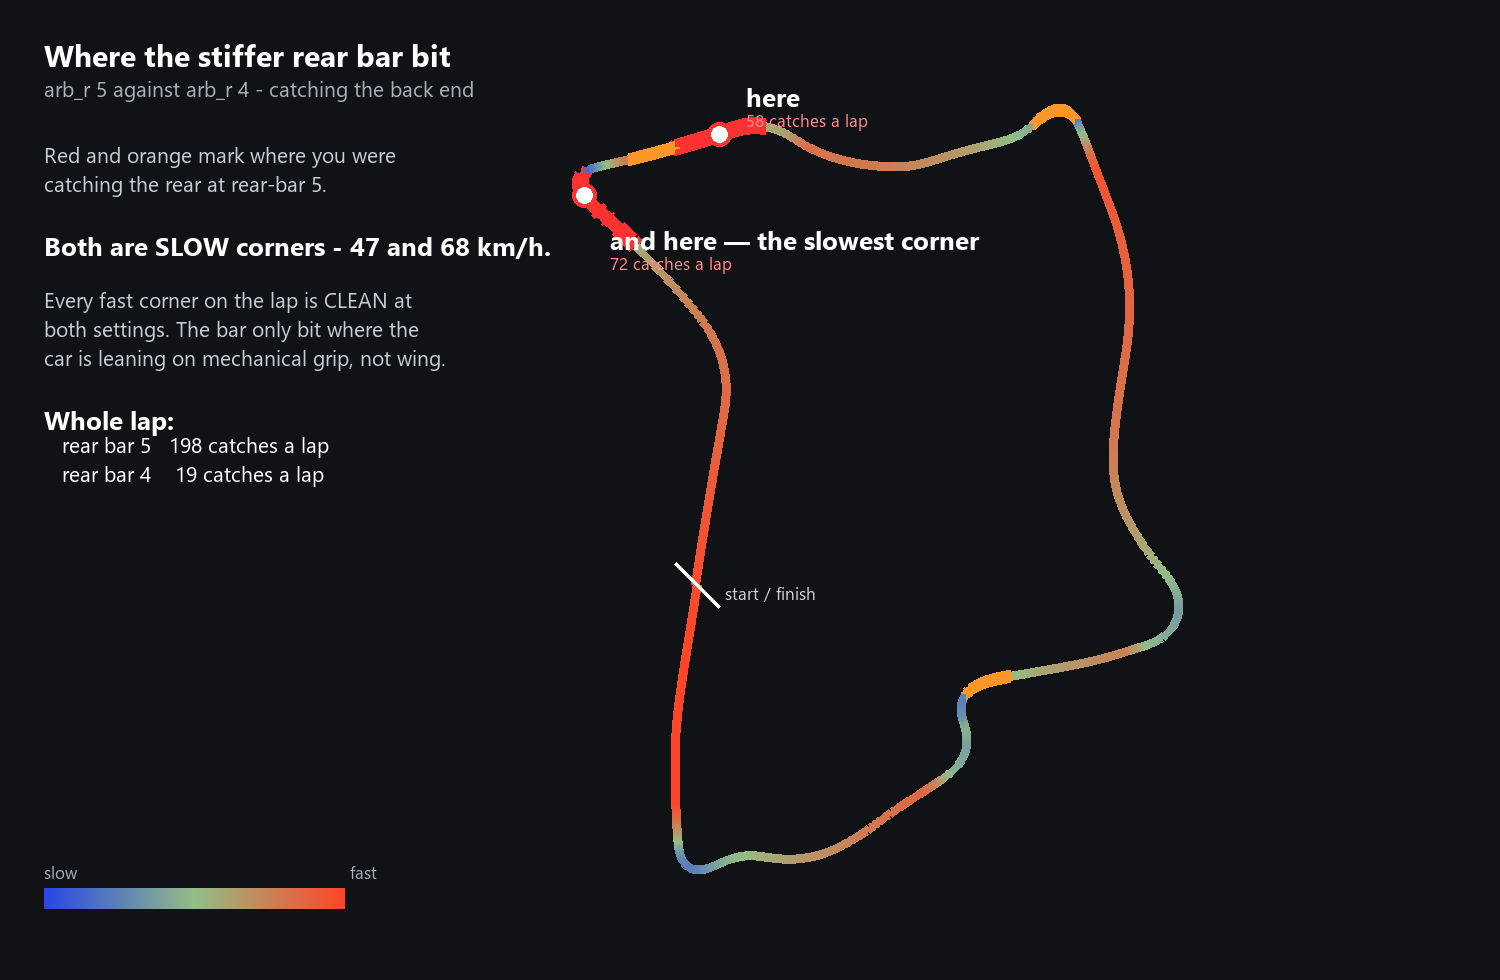
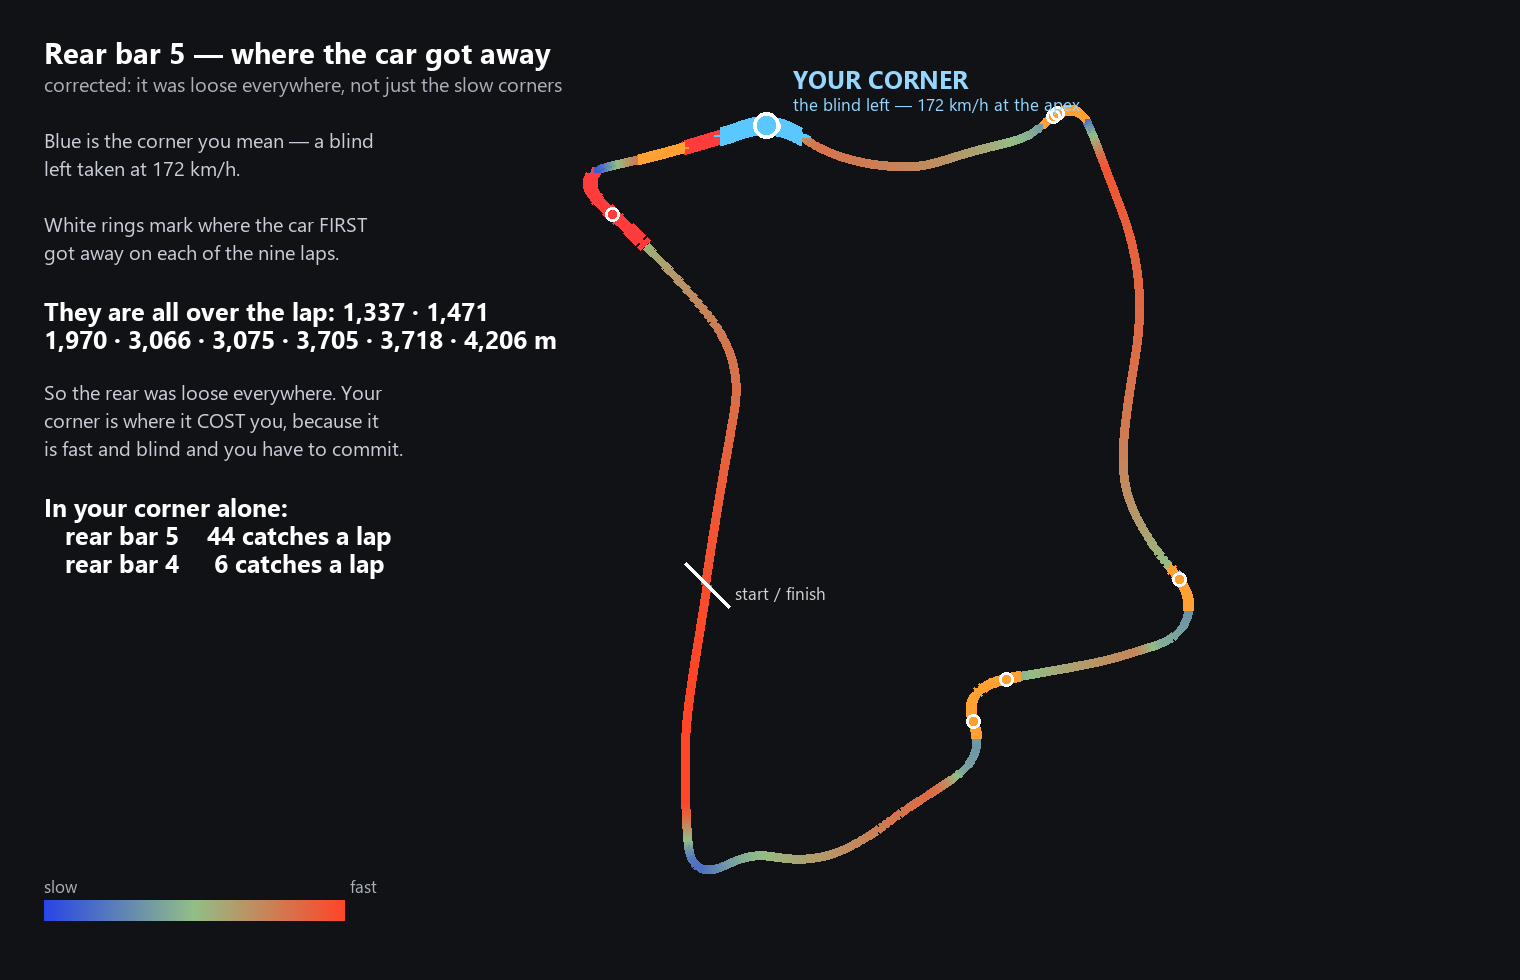
docs(car-state): retract section 29 - his corner is a 172 km/h blind left, not a slow one
Driver correction: the corner he could not work is the 3rd last, a blind left at
~165 km/h. Section 29 pinned the 68 km/h left instead and described a '47 km/h
corner' that does not exist - that speed profile was taken over all nine arb_r 5
laps, six of which contained a spin, so the bin median was him already off the
road. Clean laps at the final setting run that stretch at 187-206 km/h.

Also withdrawn: the 'only bit where mechanical grip matters' conclusion. First
loss per lap was at 1337/1471/1970/3066/3075/3705/3718/4206 m - all over the lap.
The rear was loose everywhere; his corner is where it COST him because it is fast
and blind. Catches per lap: his corner 43.7, the slow left 76.4, everything else
77.6 - not 92% in two corners.

Same error shape as AU2 three days ago: select on the symptom, then describe the
survivors as terrain. arb_r 4 confirmed either way; the rotation-index failure is
unaffected. Map redrawn.

diff --git a/brain/car-state/rsr-sardegna-road-track-a.md b/brain/car-state/rsr-sardegna-road-track-a.md
@@ -2038,3 +2038,85 @@ same-session run follows it; nothing else needs doing to the car.
 | RM rear-right wear on `arb_r` 4 stays within one gauge tick of 0.0668/lap | it moves more, and every stint length on file is re-derived |
 | The 10.7x drop in catches holds over a full stint | catches climb back above ~60 a lap as the tyres go off |
 | He reports no loose rear over 12 laps | he does, and `arb_r` goes back to 3 |
+
+## 33. ⛔ RETRACTION: section 29's "two slow corners" was built on a contaminated speed profile
+
+> **[DRIVER REPORT]:** *"no the corner I couldn't work is the 3rd last it's a
+> blind left hander at about 165km/h"*
+
+**He is right and section 29 is withdrawn.** Three separate errors, and the first
+caused the rest.
+
+### 33a. The 47 km/h corner does not exist
+
+Section 29 quoted `3,800-3,900 m at 47 km/h`. **There is no 47 km/h corner
+there.** That speed profile was taken over ALL nine `arb_r` 5 laps, six of which
+contained a spin - so the bin median is **him already off the road**. Measured on
+clean laps at the final setting, the same stretch runs at **187-206 km/h**:
+
+```
+  metres     arb_r 5, all laps     arb_r 4, clean laps
+   3750             162                    176
+   3800              59                    187
+   3850              44                    197
+   3900              70                    206
+```
+
+**I selected on the outcome and then described the survivors as terrain.** Same
+error shape as RECONCILIATION AU2 on 9 Sep - filter on a symptom, then report the
+filtered set's character as though it were the place.
+
+### 33b. His corner is FAST, not slow
+
+Corner minima from clean laps on the final setup, 20 m bins:
+
+```
+   600 m   97 kph  LEFT      3,020 m   77 kph  LEFT
+ 1,380 m   98 kph  right     3,700 m  172 kph  LEFT   <- HIS CORNER
+ 1,880 m  125 kph  LEFT      4,100 m   70 kph  LEFT
+```
+
+**The blind left at ~3,700 m, apex 172 km/h.** The car-state file already named
+it at Rev D as *"3,641-3,788 m (L, 176 km/h - the corner he complained about)"*.
+**He has flagged this same corner before and I pinned a different one.**
+
+⇒ **The map was wrong and has been redrawn** (`sardegna-arb-catches-2026-09-10.png`).
+
+### 33c. The mechanical-grip story is withdrawn
+
+Section 29 concluded the bar *"only bit where the car is leaning on mechanical
+grip, not wing."* **That does not survive.** Where the car FIRST got away on each
+of the nine laps:
+
+```
+  1,337 · 1,471 · 1,970 · 3,066 · 3,075 · 3,705 · 3,718 · 4,206 m   (one lap clean)
+```
+
+**All over the lap.** And catches per lap by region: his corner **43.7**, the slow
+left after it **76.4**, **everything else 77.6**. Not 92 % in two corners - that
+figure came from 500 m zones that swallowed the aftermath of each loss.
+
+⇒ **The rear was loose everywhere at two clicks.** His corner is where it *cost*
+him, because it is fast and blind and demands commitment - not because it is the
+only place the bar bit. **A corner can be where a fault is felt without being
+where it lives.**
+
+### 33d. What survives, unchanged
+
+- **`arb_r` 4 confirmed.** His report, plus **197.7 -> 18.5 catches a lap** and
+  six spins in nine laps becoming zero in eight.
+- **In his corner alone: 43.7 -> 5.6 catches a lap.**
+- **The rotation index was fooled** (section 28). Unaffected by this retraction -
+  if anything strengthened: the index scored a car that was loose *everywhere* as
+  rotating better.
+
+### 33e. The lesson, and it is the same one twice in three days
+
+**Never build a speed or terrain profile from laps selected by the symptom you
+are studying.** Compute the reference profile from clean laps at a known-good
+setting, then overlay the symptom on it. Both times this bit, the error looked
+like a physical finding and read perfectly plausibly.
+
+⚠ **And ask him what he calls the corner before naming it.** He calls this one
+*"the 3rd last"*; the app's own model finds six corners on a fifteen-corner
+circuit, so it cannot count to it. **His numbering is the vocabulary.**
